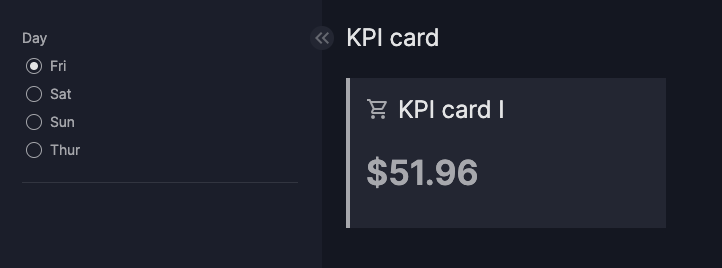
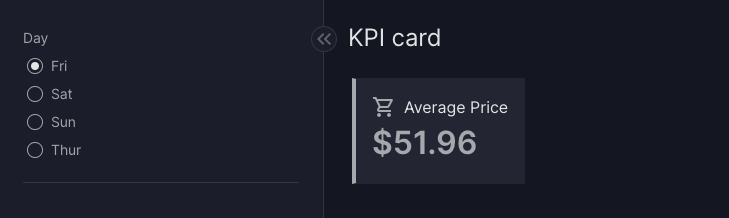
Update first KPI example

diff --git a/vizro-core/docs/pages/user-guides/figure.md b/vizro-core/docs/pages/user-guides/figure.md
@@ -50,18 +50,17 @@ To add a `Figure` to your page:
 
         tips = px.data.tips
 
-        # Create a layout with five rows and four columns. The KPI card is positioned in the first cell, while the remaining cells are empty.
         page = vm.Page(
             title="KPI card",
-            layout=vm.Grid(grid=[[0, -1, -1, -1]] + [[-1, -1, -1, -1]] * 4),
+            layout=vm.Flex(direction="row"), # (1)!
             components=[
                 vm.Figure(
-                    figure=kpi_card( # For more information, refer to the API reference for kpi_card
+                    figure=kpi_card( # (2)!
                         data_frame=tips,
                         value_column="tip",
                         value_format="${value:.2f}",
                         icon="shopping_cart",
-                        title="KPI card I",
+                        title="Average Price",
                     )
                 )
             ],
@@ -71,6 +70,9 @@ To add a `Figure` to your page:
         dashboard = vm.Dashboard(pages=[page])
         Vizro().build(dashboard).run()
         ```
+
+        1. We switch to a [`Flex`][vizro.models.Flex] layout so that the KPI card only takes up as much space as it needs.
+        1. For more information, refer to the API reference for [`kpi_card`][vizro.figures.kpi_card_reference]
 
     === "app.yaml"
 
@@ -85,7 +87,7 @@ To add a `Figure` to your page:
                   value_column: tip
                   value_format: ${value:.2f}
                   icon: shopping_cart
-                  title: KPI card I
+                  title: Average Price
                 type: figure
             controls:
               - column: day
@@ -93,9 +95,8 @@ To add a `Figure` to your page:
                 selector:
                   type: radio_items
             layout:
-              grid: [[0, -1, -1, -1], [-1, -1, -1, -1], [-1, -1, -1, -1], [-1, -1, -1, -1],
-                 [-1, -1, -1, -1]]
-              type: grid
+              direction: row
+              type: flex
             title: KPI card
         ```
 
